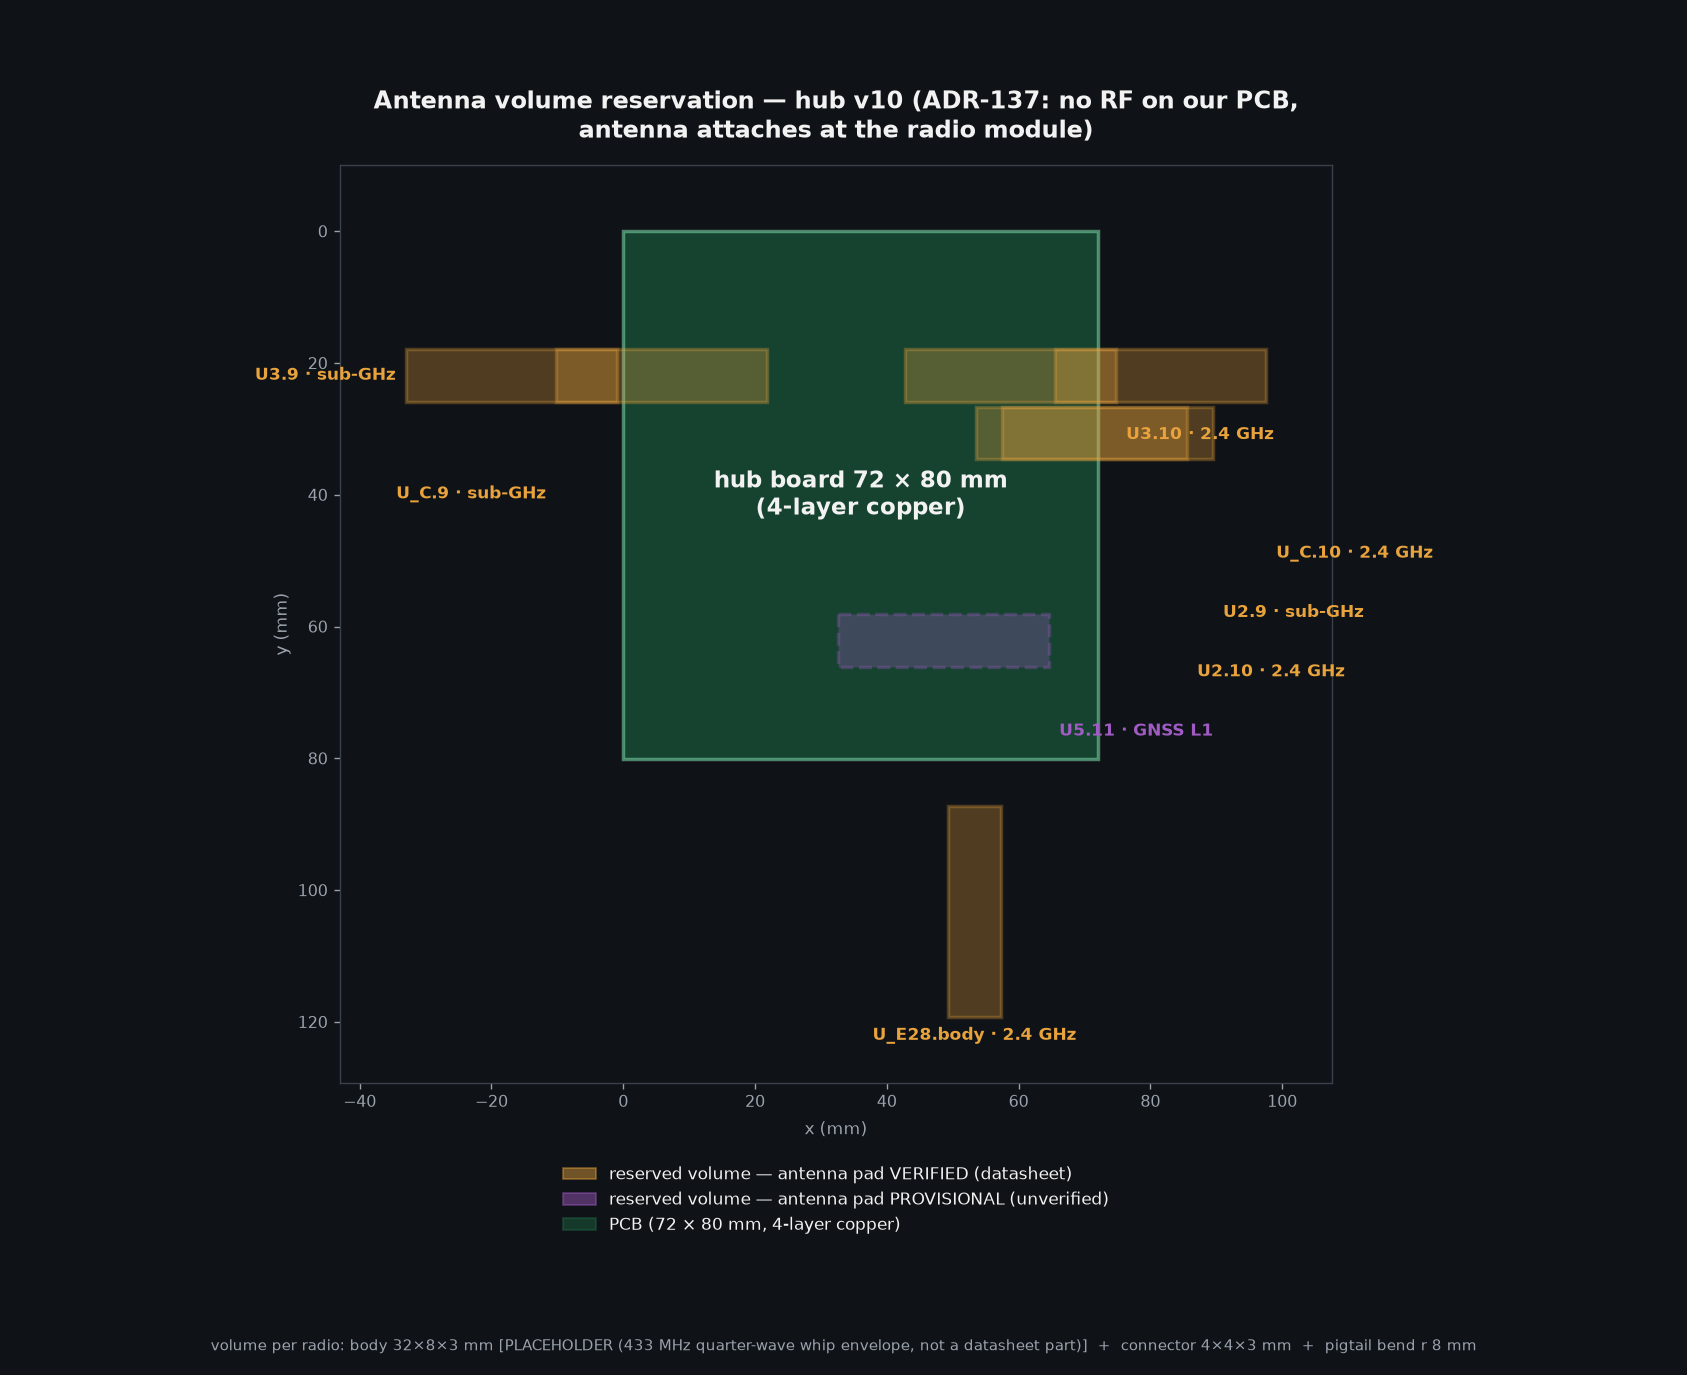
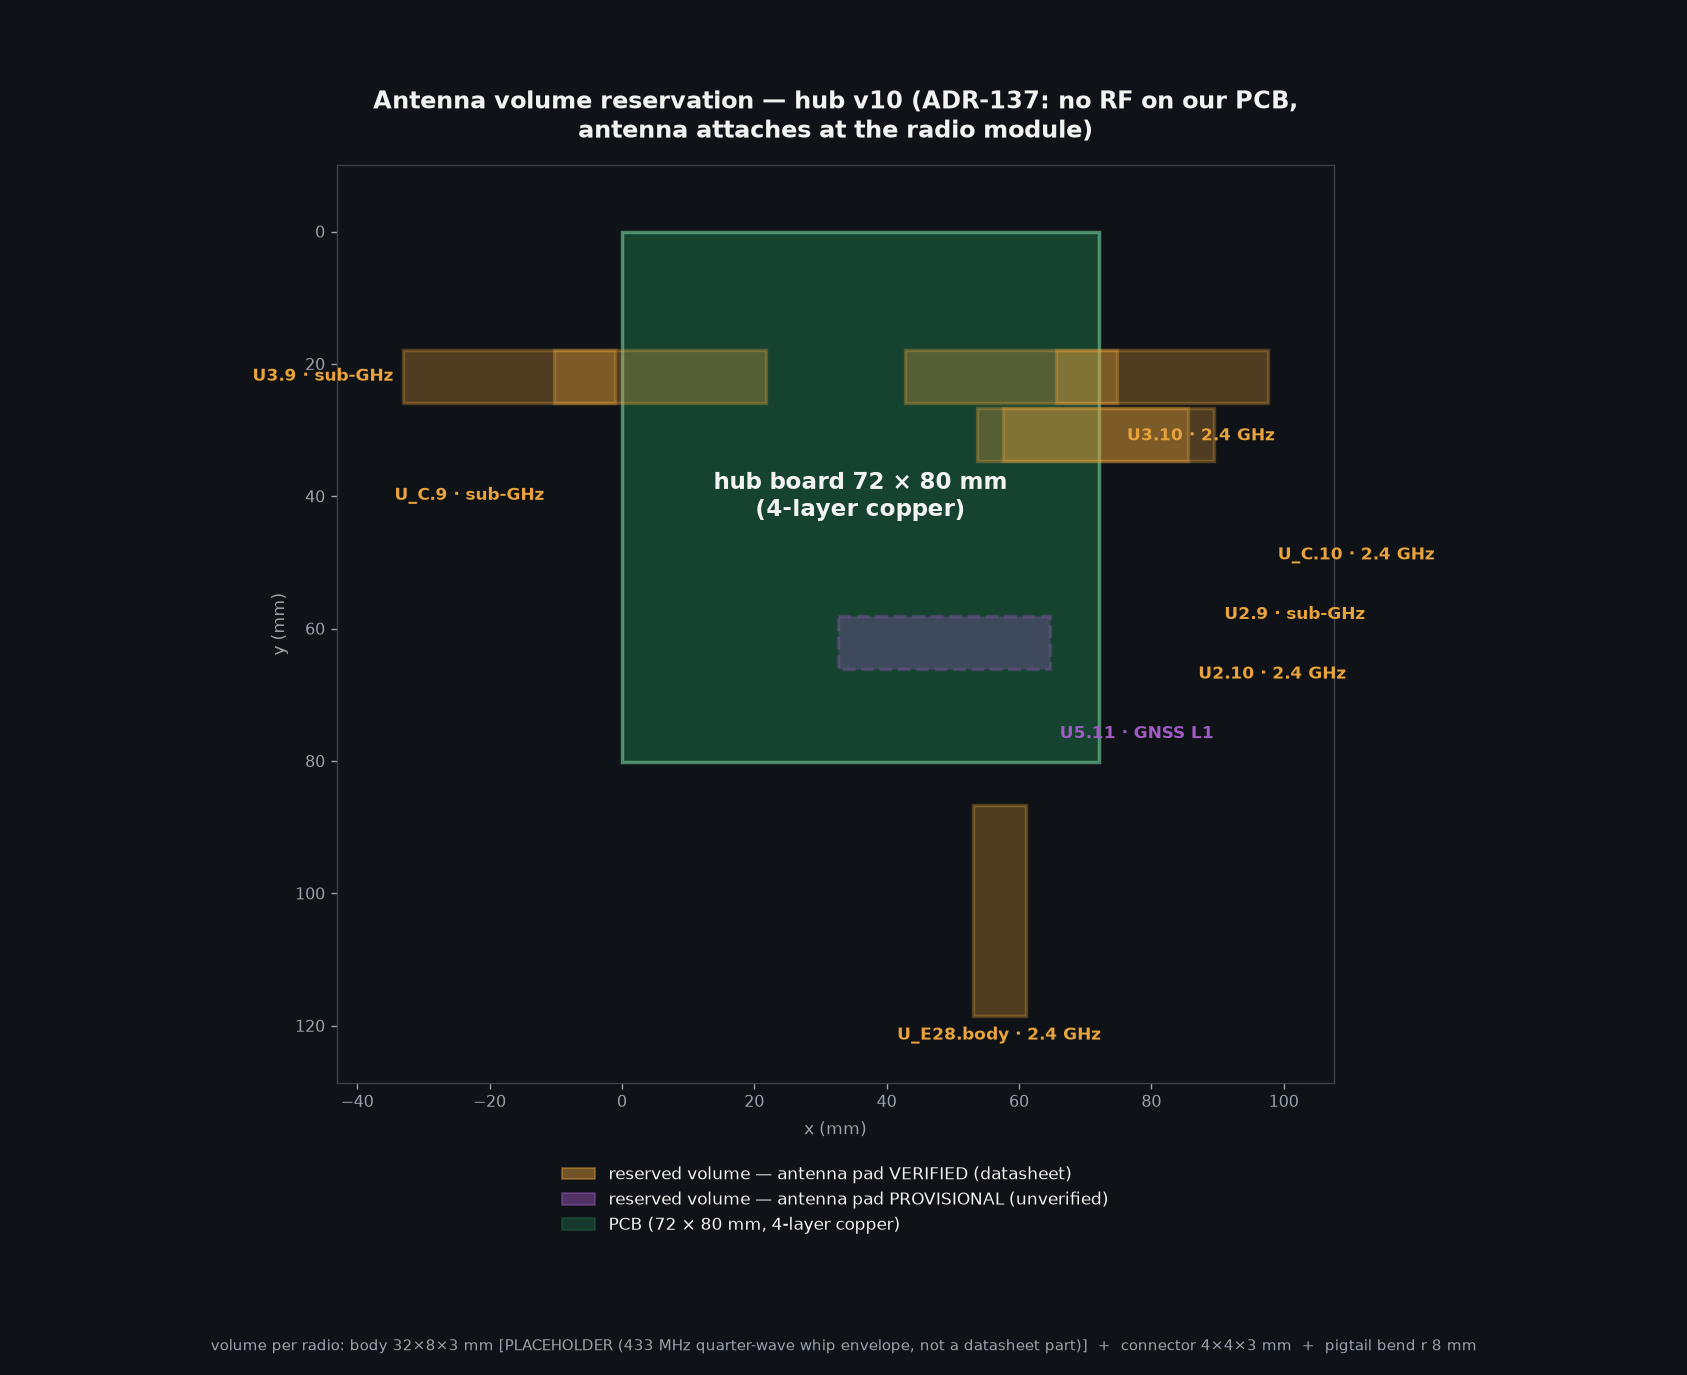
docs(hub): answer 3 of 7 Ebyte questions from the official manual; fix the U_E28 antenna anchor (#320)
The Google redirect token would not resolve, but Ebyte's own PDF was located and fetched:
  https://www.cdebyte.com/pdf-down.aspx?id=1671   (14 pages, E28-2G4M27SX User Manual)
  https://www.cdebyte.com/products/E28-2G4M27SX/1  (product page)
Text via pdftotext -layout; the Chapter 3 mechanical drawing read from a 200 dpi render.

ANSWERED -- Q3 (series resistor): NO BOM CHANGE
  'Communication level 3.3 V -- risk of burnout with 5 V TTL'
  s4.1: 'If the communication line uses 5 V level, a 1k-5.1k resistor must be connected in
  series (not recommended, there is still a risk of damage)'
  A series resistor is specified ONLY for 5 V lines and is called not-recommended even then.
  Drive both enables directly from ESP32 GPIOs at 3.3 V.

ANSWERED -- Q7 (current), module totals
  emission 580 mA instantaneous, receive 14.5 mA, sleep 2.0 uA.
  Receive sensitivity is quoted -130/-131/-132 dBm 'with high sensitivity mode enabled', so the
  LNA enable is worth roughly the 2 dB spread -- not cosmetic for a weak-signal link. The PA-on/off
  DELTA specifically is still unstated.

ANSWERED (strongly implied) -- Q1 (is the IPEX a finished 50 ohm port)
  Never stated in one sentence, but: antenna interface is 'IPEX/PCB, about 50 ohm'; the module is
  'SX1280+PA+LNA' with the amplifiers INSIDE; s4.2 says set the SX1280 to 0 dBm and the module
  outputs 27 dBm, i.e. the gain is added on-module. A finished 27 dBm product whose only RF port is
[…]

diff --git a/tracker/hardware/reserve_antenna_volume.py b/tracker/hardware/reserve_antenna_volume.py
@@ -85,11 +85,18 @@ MODULES = {
     # The antenna is an IPEX connector ON THE MODULE BODY. The earlier entry anchored a volume at
     # pad 9 -- which is TX_EN, a PA control pin. That was simply wrong.
     "U_E28": [
+        # POSITION now read from the Chapter 3 MECHANICAL DRAWING (rendered from Ebyte's official
+        # user manual, cdebyte.com pdf id=1671, page 5): the connector labelled "IPX" sits in the
+        # module's LOWER-RIGHT corner -- diagonally opposite pin 1, i.e. at the pin-16 corner. The
+        # drawing gives no numeric offset from either edge, so the anchor is that corner rather
+        # than a dimensioned point.
+        # Note the drawing is 16.0 x 20.0 x 2.90 mm while the spec table says 15 x 20 mm; our
+        # footprint's 15.0 mm pad-row separation matches the 16.0 mm DRAWING, not the table.
         dict(pin=None, band="2.4 GHz", access="module-integrated IPEX/PCB connector",
-             evidence="E28 user manual v1.0 line 216 (IPEX/PCB, ~50 ohm) + 16-pin table with no "
-                      "antenna pin (pdftotext). Connector POSITION needs the Ch.3 mechanical "
-                      "drawing; anchor is the module body, not a pad",
-             verified=True),
+             evidence="E28 user manual: line 216 'IPEX/PCB, ~50 ohm' + Ch.3 mechanical drawing "
+                      "(IPX in lower-right corner, opposite pin 1; no numeric offset given). "
+                      "16-pin table has no antenna pin",
+             verified=True, anchor_xy=(57.0, 74.6), anchor_side="south"),
     ],
     "U5": [
         dict(pin="11", band="GNSS L1", access="unknown",
@@ -119,10 +126,15 @@ def main() -> int:
         cx, cy = c.x / 1e6, c.y / 1e6
         pads = {str(p.GetNumber()): p for p in fp.Pads()}
         for port in ports:
-            if port["pin"] is None:
-                # module-integrated antenna: no pad to anchor at. Use the module body side
-                # nearest a board edge and say so -- the connector's real position needs the
-                # mechanical drawing.
+            if port.get("anchor_xy"):
+                # explicit anchor from a mechanical drawing -- always beats the heuristic below
+                px, py = port["anchor_xy"]
+                anchor_side = port["anchor_side"]
+                dx, dy = {"west": (-1, 0), "east": (1, 0),
+                          "north": (0, -1), "south": (0, 1)}[anchor_side]
+            elif port["pin"] is None:
+                # module-integrated antenna, no pad and no drawing offset: fall back to the
+                # module body side nearest a board edge and say so.
                 fbb = fp.GetBoundingBox()
                 bx1, by1 = fbb.GetX() / 1e6, fbb.GetY() / 1e6
                 bx2 = (fbb.GetX() + fbb.GetWidth()) / 1e6

diff --git a/docs/fab/status/EBYTE-QUESTION-e28-enables.md b/docs/fab/status/EBYTE-QUESTION-e28-enables.md
@@ -32,6 +32,88 @@ module's behaviour stated rather than inferred.
 Questions are ordered by **what would change our design**, not by pin number. Two of them could
 force a board change; the rest are documentation.
 
+## ANSWERS FOUND — from Ebyte's official manual and product page (2026-10-26)
+
+The operator supplied a link; the Google redirect token would not resolve, but Ebyte's own PDF was
+located and fetched: **`https://www.cdebyte.com/pdf-down.aspx?id=1671`** (14 pages, "E28-2G4M27SX User
+Manual") plus the product page `cdebyte.com/products/E28-2G4M27SX/1`. Extracted with `pdftotext
+-layout`, and the Chapter 3 mechanical drawing read from a 200 dpi render.
+
+This section **supersedes the questions below where they overlap** — check here first.
+
+### ANSWERED — Q3 (series resistor): no, 3.3 V direct is correct
+
+Two independent statements in the manual:
+
+> "Communication level | 3.3 V | Risk of burnout with 5 V TTL"
+
+> §4.1: "If the communication line uses **5 V level**, a 1k–5.1k resistor must be connected in series
+> (not recommended, there is still a risk of damage)"
+
+A series resistor is specified **only for 5 V lines**, and even then is called "not recommended".
+At 3.3 V there is no resistor requirement. **No BOM change needed** — drive both pins directly from
+ESP32 GPIOs.
+
+### ANSWERED — Q7 (current), module totals (the enable delta is still not given)
+
+| parameter | typ | note |
+|---|---|---|
+| emission current | **580 mA** | instantaneous, during TX |
+| receive current | **14.5 mA** | |
+| sleep current | **2.0 µA** | software shutdown |
+
+Receive sensitivity is quoted as **−130 / −131 / −132 dBm** "...with **high sensitivity mode
+enabled**", i.e. the LNA enable is worth roughly the 2 dB between the un-enabled and enabled figures.
+So `RX_EN` is not cosmetic for a weak-signal link, and `TX_EN` gates the 580 mA. The PA-on/off
+*delta* specifically is still unstated.
+
+### ANSWERED — Q1 (IPEX finished 50 Ω port): strongly implied YES, not stated verbatim
+
+Never stated in one sentence, but the manual is unambiguous in aggregate:
+
+- antenna interface is **"IPEX/PCB, equivalent impedance is about 50 Ω"**;
+- the module is **"SX1280+PA+LNA"** — the amplifiers are **inside** the module;
+- the only antenna interface offered is the IPEX (or a PCB antenna variant);
+- §4.2: *"It is recommended to set the power output parameter of SX1280 to 0 dBm. At this time, the
+  module can output power of 27 dBm"* — the gain is added on-module.
+
+A module sold as a finished 27 dBm product, whose only RF port is an IPEX, must carry its own
+matching. **ADR-137 stands on that basis**, but it remains an inference rather than a quoted
+sentence, so it is still worth confirming in writing before a purchase order.
+
+### PARTIALLY ANSWERED — Q6 (IPEX position): corner known, offset not
+
+The Chapter 3 mechanical drawing shows the connector labelled **"IPX"** in the module's
+**lower-right corner — diagonally opposite pin 1** (i.e. at the pin-16 corner), on the component
+face. Pin 1 is on a long edge near the upper-left corner, numbering runs **1→8 down one long edge
+then 9→16 up the other** (counter-clockwise from the component side).
+
+**No numeric offset from either edge is dimensioned.** The `2.69 mm` callout locates the first pad
+from the top edge, not the antenna.
+
+Consequence applied: the `U_E28` antenna volume is now anchored at that corner `(57.0, 74.6)` rather
+than at the module centre — previously it was centred at x≈53, about 4 mm too far left.
+
+**A drawing-vs-table discrepancy worth recording:** the mechanical drawing is
+**16.0 × 20.0 × 2.90 mm**, while the specification table says **15 × 20 mm**. Our footprint's
+**15.0 mm** pad-row separation matches the **drawing** (16.0 mm outline, pads inset ~0.5 mm each
+side), not the table. So the drawing is the correct reference for our land pattern.
+
+### STILL OPEN — genuinely unanswered by the manual
+
+| question | status |
+|---|---|
+| **Q2** — is `TX_EN` + `RX_EN` high **simultaneously** permitted? | **not addressed anywhere** in the manual or product page |
+| **Q4** — behaviour while both pins **float** (our boot window) | **not addressed**; only `NRESET` documents a 50 K pull-up |
+| **Q5** — sequencing between VCC / `NRESET` / `TX_EN` / `RX_EN` | **not addressed** |
+
+These three are the ones actually worth sending now. Q2 in particular has a board consequence
+(hardware interlock or not) and cannot be inferred from the documents.
+
+---
+
+## Original question set (kept for the record; see ANSWERS above first)
+
 ### Tier 1 — could change the board
 
 **Q1. Is the antenna IPEX port a FINISHED 50 Ω interface, or is it the raw SX1280 RF pin?**
